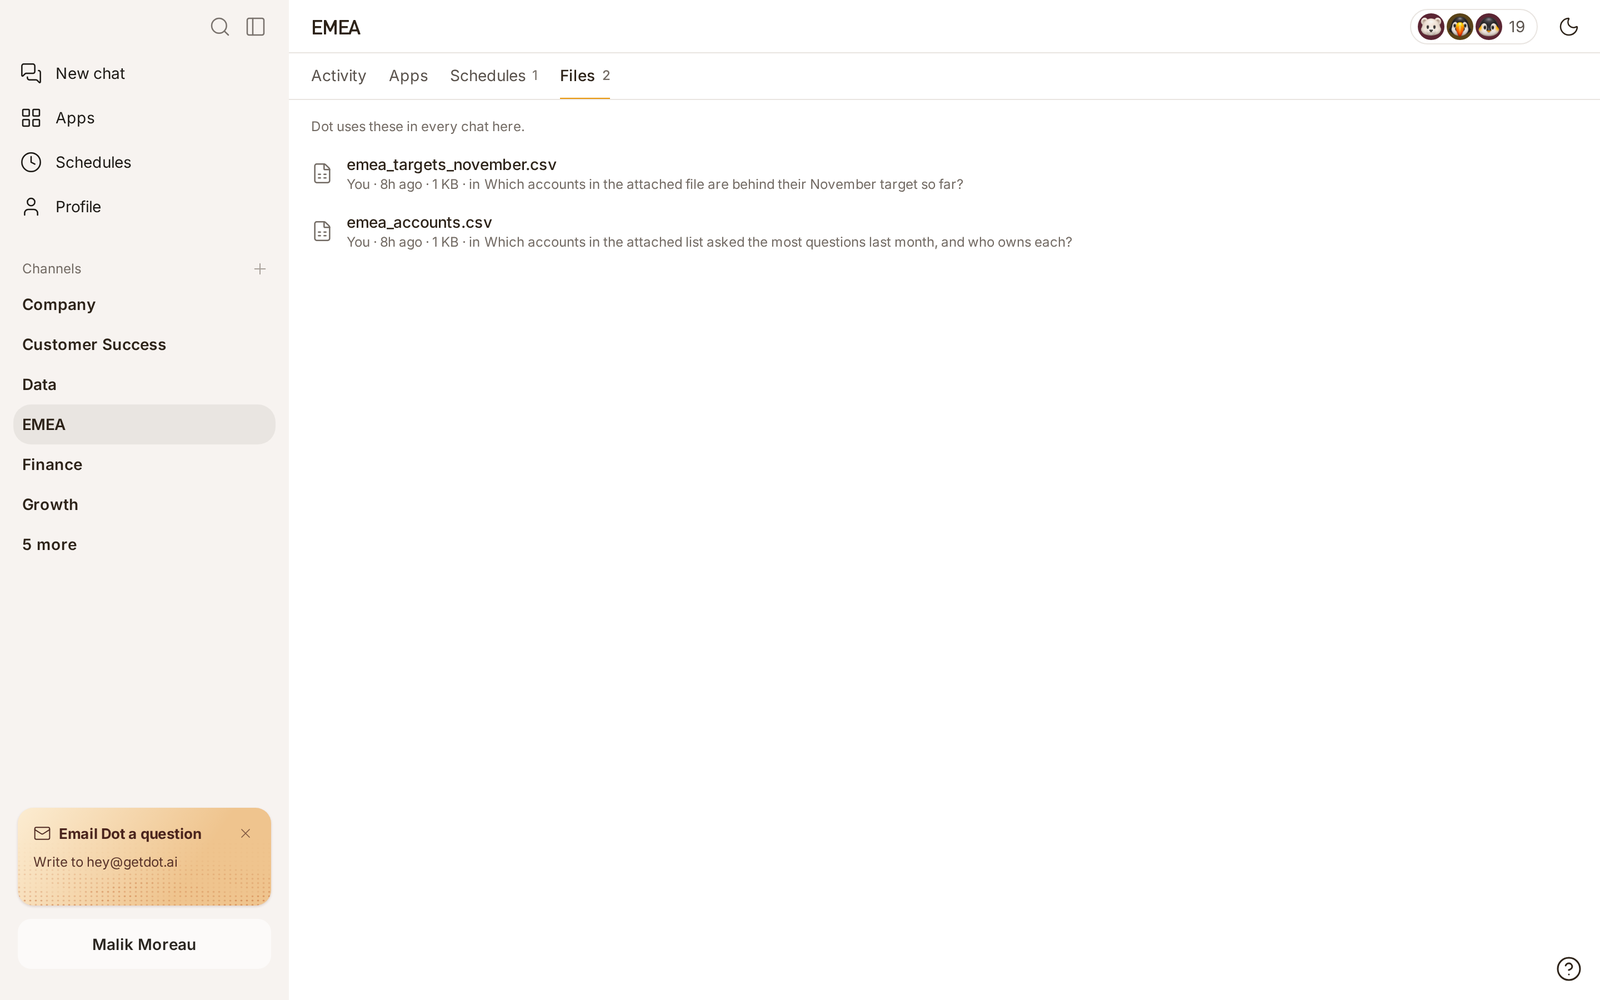
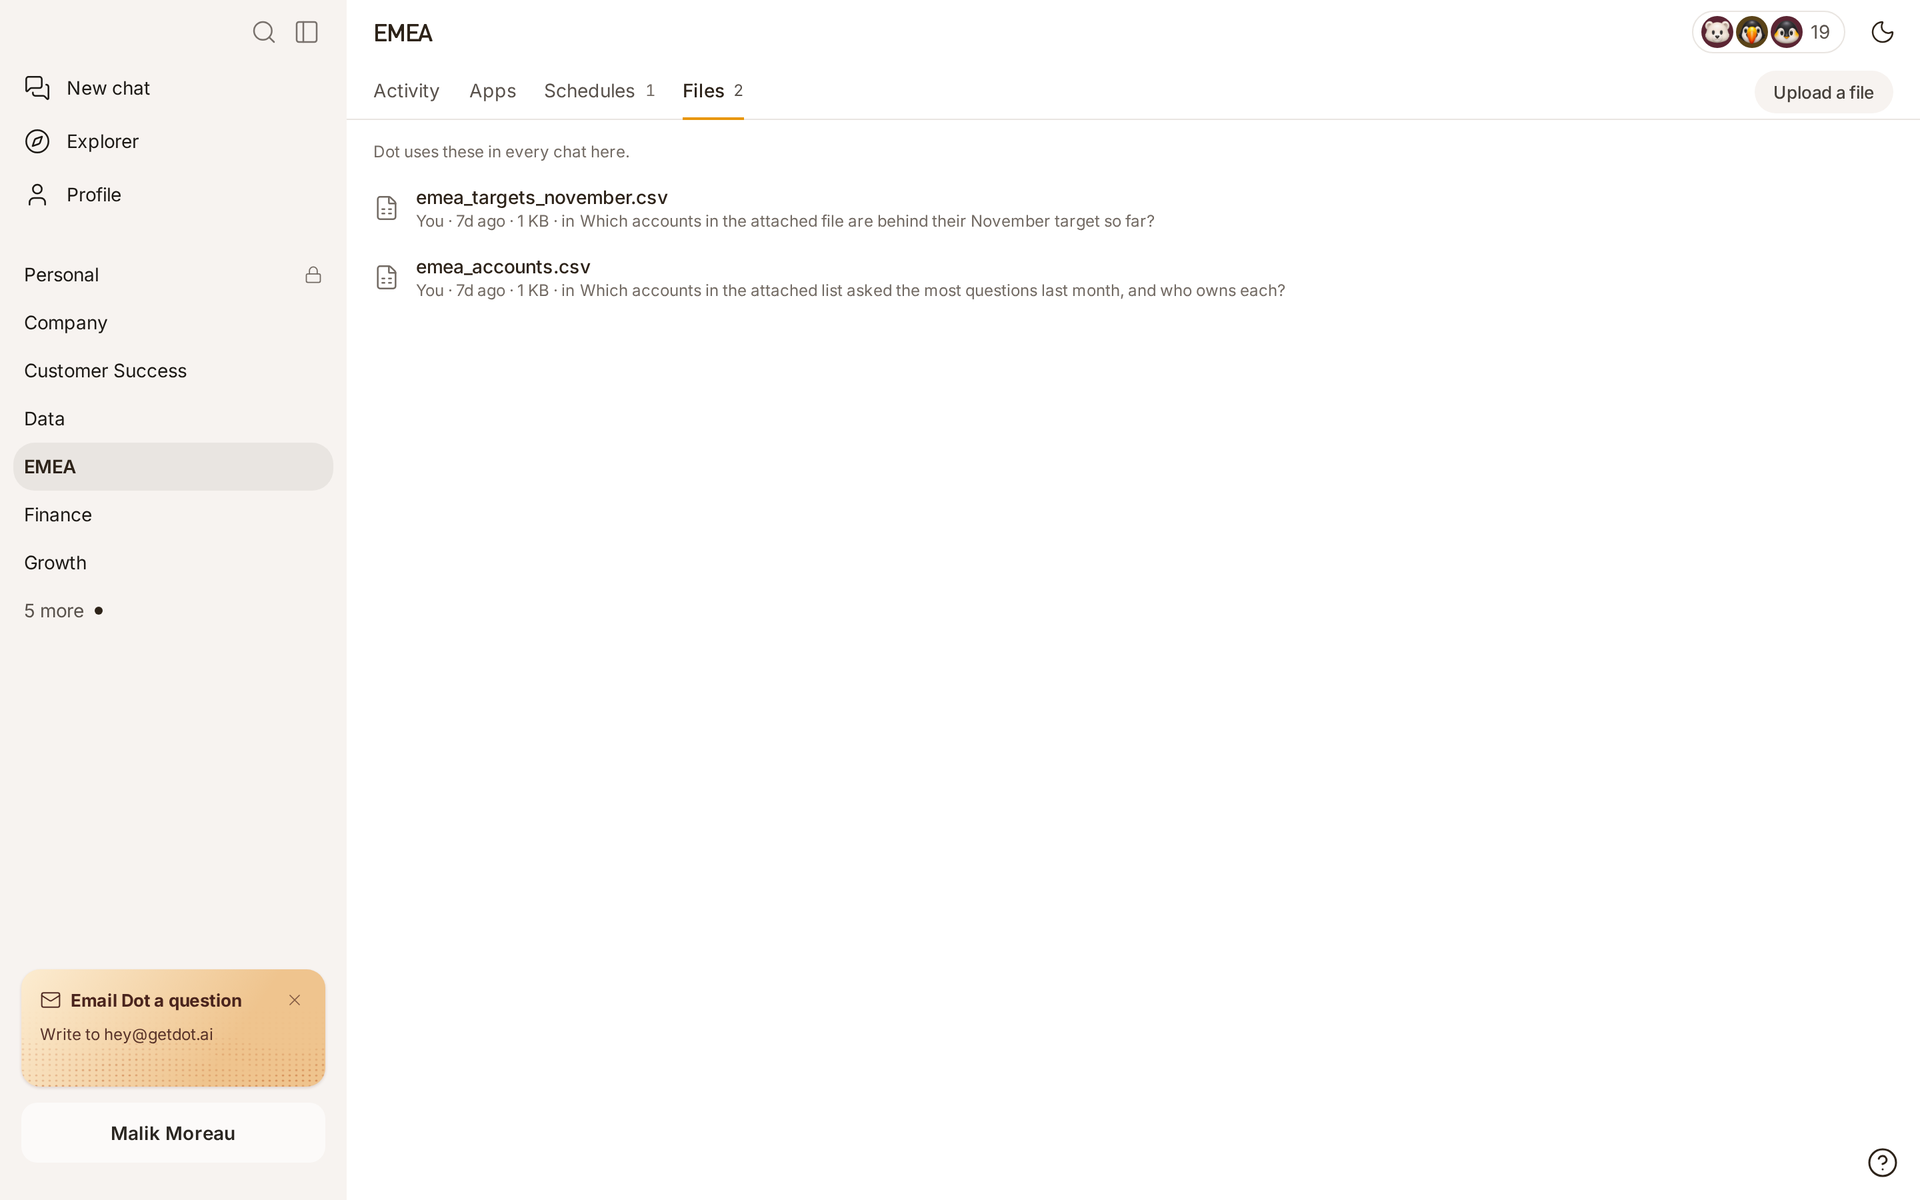
docs: places, the Explorer and its search
Dot is now organized by place: Personal or a channel, each with the
same tabs, and the Explorer to find anything. The team page follows
it: the sidebar lists places, news is a dot, a channel starts from
the Explorer or the sidebar, a chat moves through its menu, an app
is published to a place. Pictures are retaken from the app.

diff --git a/dot/dot/whats-dot/teams.md b/dot/dot/whats-dot/teams.md
@@ -1,17 +1,40 @@
 ---
-description: Ask Dot together in channels that hold a team's chats, apps and schedules.
+description: Work with your team in channels, and find everything in the Explorer.
 ---
 
 # Teams and channels
 
-A channel is your team's place in Dot. It holds the team's questions to Dot, its apps, the schedules that deliver them and the files the team gave Dot. Each has a tab: **Activity**, **Apps**, **Schedules** and **Files**. On **Activity**, you ask Dot in the box at the bottom, as in a Slack channel.
+Everything in Dot lives in one place. A place is **Personal**, where only you see it, or a **channel**, your team's place. Each place holds its chats, apps and schedules, each on its own tab: **Activity**, **Apps** and **Schedules**, plus **Files** in a channel.
+
+The sidebar lists your places: **Personal** first, then your channels. A dot beside a place means something is new there since you last looked. To see everything you can open at once, click **Explorer**.
 
 <figure><img src="../../.gitbook/assets/team-channel.png" alt="A channel's Activity tab: each question as a post with its replies, a schedule's run with what it found, and a box to ask Dot"><figcaption><p>A channel's activity: each question with its replies, and what a schedule found.</p></figcaption></figure>
 
+## Find anything in the Explorer
+
+The Explorer lists every place you can open on its **Channels** tab, every app on **Apps** and every schedule on **Schedules**, grouped by place. On **Channels** you see who is in each channel, your access, what it holds and when it last changed. Point at a row to see its newest post.
+
+To find something:
+
+1. In the sidebar, click **Explorer**.
+2. Type in the search at the top. You can also press **/** to jump to it.
+
+The search covers all three tabs, and each tab shows how many results it has. Your words stay when you switch tabs or come back from something you opened. A channel or folder you find by its name shows everything in it, and an app is found by its description too. Press **Escape** to clear the search.
+
+<figure><img src="../../.gitbook/assets/team-explorer-search.png" alt="The Explorer's search with the word gro, its Apps tab showing the apps of the Growth channel"><figcaption><p>One search for channels, apps and schedules.</p></figcaption></figure>
+
+Admins see the same page with more on it: every channel in the workspace, and other people's personal apps and schedules.
+
+## Personal
+
+**Personal** holds your chats that are in no channel, and your own apps and schedules. Only you and admins can open it, unless you share a chat's link. If your admin lets modelers read every chat in History, modelers can open it too.
+
+To ask Dot something only you see, open **Personal** and type in the box at the bottom.
+
 ## Ask Dot in a channel
 
-1. In the sidebar, under **Channels**, open the channel.
-2. Type your question in the box at the bottom and press Enter.
+1. In the sidebar, click the channel.
+2. Type your question in the box at the bottom of **Activity** and press Enter.
 
 Your question appears in the channel, and its thread opens beside it. Dot answers in the thread, with your own data access, and everyone in the channel sees the answer. To ask a follow-up, use the box in the thread.
 
@@ -21,7 +44,7 @@ Each question in the channel shows who asked it and when. Below it, a line says 
 
 ## See what is new
 
-* A channel's name is bold in the sidebar when something happened since you last looked at it.
+* A dot beside a channel in the sidebar and in the Explorer means something happened there since you last looked.
 * In the channel, a **New** line sits above what came after your last visit.
 * A dot on a question's replies means its thread has news you haven't opened.
 
@@ -32,7 +55,7 @@ Each channel names the groups and people who can open it, and what they can do t
 * **Can edit**: ask Dot in the channel, and put chats and apps in it.
 * **Can view**: read everything in the channel.
 
-Admins open every channel. Everything that is in no channel is personal: only you and admins can open it, unless you share its link. If your admin lets modelers read every chat in History, modelers can open it too.
+Admins open every channel.
 
 To see who is in a channel, click the faces at the top of it. The number beside them says how many people can open it. In a channel you can only read, the place of the box says who can let you ask. A thread says the same, and offers **Continue in a private chat**.
 
@@ -40,7 +63,7 @@ To see who is in a channel, click the faces at the top of it. The number beside 
 
 Anyone in the workspace can start a channel.
 
-1. In the sidebar, click **+** beside **Channels**.
+1. In the **Explorer**, on the **Channels** tab, click **New channel**. You can also point at your places in the sidebar and click **New channel** under them.
 2. Name the channel.
 3. Add groups or people. A group joins as **Can view** and a person as **Can edit**.
 4. Change **Can view** to **Can edit** for the people who should ask Dot in it.
@@ -50,23 +73,21 @@ A new channel is empty: it says who started it and when, and suggests a few firs
 
 You are always in a channel you start. You and the workspace's admins can rename it, delete it and change who is in it, from the faces and the **⋮** menu at the top of the channel. Deleting a channel gives its chats back to the people who started them. Only an admin can delete a channel that holds apps.
 
-<figure><img src="../../.gitbook/assets/team-new-channel.png" alt="The New channel panel with a name, two people who can edit, and Create"><figcaption><p>Name the channel and choose who is in it.</p></figcaption></figure>
+<figure><img src="../../.gitbook/assets/team-new-channel.png" alt="The New channel panel with a name field, people and groups, and Create"><figcaption><p>Name the channel and choose who is in it.</p></figcaption></figure>
 
-<figure><img src="../../.gitbook/assets/team-channel-start.png" alt="An empty channel saying who started it and when, with two suggested first questions"><figcaption><p>A new channel suggests a few first questions.</p></figcaption></figure>
-
-To find a channel, search for its name: click the magnifier at the top of the sidebar, or press ⌘K (Ctrl+K on Windows). Search also finds your teammates' questions in every channel you can open.
+To find a channel, search for its name in the Explorer, or click the magnifier at the top of the sidebar or press ⌘K (Ctrl+K on Windows). That search also finds your teammates' questions in every channel you can open.
 
 ## Apps in a channel
 
-The **Apps** tab shows the channel's apps. Each card shows a picture of the app's first screen, with your own data. Click a card to open the app.
+The **Apps** tab lists the channel's apps, and the folders in it. Point at an app's name to see a picture of it, with your own data. Click the name to open the app.
 
-An app is in a channel when it is published to that channel's folder on the **Apps** page.
+To put an app in a channel, click **Publish** in the app's chat and pick the channel. To move an app you already published, click **⋮** at the end of its row, then **Move to…** and the place.
 
 ## Files in a channel
 
 The **Files** tab lists every file uploaded in the channel's chats: who gave it, when, and the chat it came with. Click a file to download it, or its chat to open the thread.
 
-To add a file, attach it to your question in the box at the bottom of **Activity**. Dot uses the channel's files as context. When you ask in any of the channel's chats, Dot knows which files the team has given it and brings in the one your question needs, so nobody has to upload the same file twice.
+To add a file, attach it to your question in the box at the bottom of **Activity**, or click **Upload a file**. Dot uses the channel's files as context. When you ask in any of the channel's chats, Dot knows which files the team has given it and brings in the one your question needs, so nobody has to upload the same file twice.
 
 <figure><img src="../../.gitbook/assets/team-channel-files.png" alt="A channel's Files tab listing two uploaded spreadsheets with who gave each, when, and in which chat"><figcaption><p>The Files tab lists what the channel's chats were given.</p></figcaption></figure>
 
@@ -76,17 +97,14 @@ Uploaded files follow your workspace's **Data retention** setting, so a file lea
 
 ## Put a chat in a channel
 
-In the sidebar, click **⋮** beside the chat, then **Move to a channel** and the channel. The chat leaves **Personal** and becomes a question in the channel. Its post says when it was first asked.
+1. Click **⋮** on the chat: on its post in **Personal**, on its row in your favorites, or beside **Share** on the chat's own page.
+2. Click **Move to…** and pick the channel.
 
-Or from the chat itself:
+The chat leaves **Personal** and becomes a question in the channel. Its post says when it was first asked. To move it back, pick **Personal** the same way.
 
-1. Open the chat and click **Share**.
-2. Under **Channel**, pick the team's channel (type to search). Dot shows who will be able to ask in it and who can only read it.
-3. Click **Share in** and the channel's name.
+You can also click **Share** in the chat, pick the channel under **Shown in**, and click **Share in** and the channel's name. Dot shows who will be able to ask in it and who can only read it before you share.
 
 Only the person who started a chat, or an admin, can put it in a channel or take it out. Once a teammate has asked in it, it stays in that channel: their answers came from their own data access, for that channel's people. You can still take it out of the team, and an admin can move it.
-
-<figure><img src="../../.gitbook/assets/team-share-to-channel.png" alt="The Share dialog naming who can ask in the picked channel and who can read it"><figcaption><p>Share says who will ask and who will read before you share.</p></figcaption></figure>
 
 ## Ask in a teammate's chat
 
@@ -96,25 +114,18 @@ When you ask, Dot answers with your own data access, not the access of the perso
 
 If a teammate asks while you have the chat open, their question and Dot's work appear as they happen.
 
-<figure><img src="../../.gitbook/assets/team-chat.png" alt="A team chat as a page, showing its channel and the people in it, with each question labelled by who asked"><figcaption><p>A team chat says which channel it is in and who asked each question.</p></figcaption></figure>
-
-## The sidebar
-
-* **Channels** lists the channels you are in. A channel's name is bold when something is new in it since you last looked. Admins also see **All channels**, which lists every channel in the workspace, including the ones they are not in.
-* **Personal** lists your chats that are in no channel. A chat in a channel is a question in that channel.
-
-To make the sidebar wider, for long chat titles or channel names, drag its right edge.
+<figure><img src="../../.gitbook/assets/team-chat.png" alt="A team chat as a page, naming its channel, with the question labelled by who asked it"><figcaption><p>A team chat says which channel it is in and who asked each question.</p></figcaption></figure>
 
 ## Schedules in a channel
 
-The **Schedules** tab lists the schedules that deliver the channel's chats and apps: how often each runs, whose data access it runs with, and when it runs next. When a schedule runs, Dot posts what it found in the channel. Click the post to see everything it sent. On the **Schedules** page your own schedules come first, then one row for each channel you are in, holding its schedules.
+The **Schedules** tab lists the schedules that deliver the channel's chats and apps: how often each runs, whose data access it runs with, and when it runs next. Click one of your schedules to see its place, who it runs as and its past runs; a teammate's schedule opens its thread in the channel. When a schedule runs, Dot posts what it found in the channel. Click the post to see everything it sent.
 
 * People who can edit the channel can pause and resume a teammate's schedule from the **⋮** at the end of its row. It keeps running as its owner.
 * Editing a teammate's schedule makes it yours. From then on it runs with your data access, and the editor says so before you save.
 * To test a teammate's schedule, choose **Latest numbers** or **Brief**: the test runs with your own data access.
 * People who can only view the channel see what runs and as whom, but not who receives it.
 
-<figure><img src="../../.gitbook/assets/team-edit-teammates-schedule.png" alt="The schedule editor saying that saving makes a teammate's schedule yours"><figcaption><p>Saving a change to a teammate's schedule makes it yours.</p></figcaption></figure>
+<figure><img src="../../.gitbook/assets/team-schedule-panel.png" alt="A schedule's panel naming its place, Growth, and who it runs as, with its past runs"><figcaption><p>A schedule says which place it belongs to and whose access it runs with.</p></figcaption></figure>
 
 ## Your face
 
@@ -125,8 +136,6 @@ Teammates see your face beside your questions. To change it, open **Profile** an
 * Click **Upload a picture**.
 
 Until you choose, Dot shows your Slack photo if it has one. Otherwise it shows an animal it picked for you.
-
-<figure><img src="../../.gitbook/assets/team-face-picker.png" alt="The face picker with the animals, a field to draw a face from a few words, and Upload a picture"><figcaption><p>Choose an animal, draw your own, or upload a picture.</p></figcaption></figure>
 
 ## Ask Dot about your team
 
@@ -139,4 +148,4 @@ Dot knows the channels you can open and what is in them. You can ask it things l
 
 Before Dot changes a teammate's schedule, it tells you the schedule will run with your access and asks you to confirm.
 
-Dot can't publish an app for you. When you ask it to put an app in a channel, it builds the app and tells you to click **Publish** and pick the channel's folder.
+Dot can't publish an app for you. When you ask it to put an app in a channel, it builds the app and tells you to click **Publish** and pick the channel.

diff --git a/dot/dot/whats-dot/apps/README.md b/dot/dot/whats-dot/apps/README.md
@@ -32,7 +32,7 @@ They all share the same engine, primitives, and data connections — the differe
 1. **Ask in chat** — "build an executive overview dashboard", "turn this into a board deck". (Or click **New App**.)
 2. **Dot builds it** — it compiles your plain-English questions to SQL, dry-runs them, and shows a live preview with an **Open app** card.
 3. **Refine conversationally** — "add a region filter", "make it a report", "change the theme". Every edit rebuilds and re-previews.
-4. **Publish**: the app appears on your **Apps** page, in **My Apps** or in a shared folder your team can open. An app in a team's folder also shows at the top of its [channel](../teams.md#apps-in-a-channel).
+4. **Publish**: pick **Personal**, where only you see it, or one of your team's [channels](../teams.md#apps-in-a-channel). The app appears on that place's **Apps** tab, and in the Explorer.
 
 ## Live, interactive, and yours to edit
 
